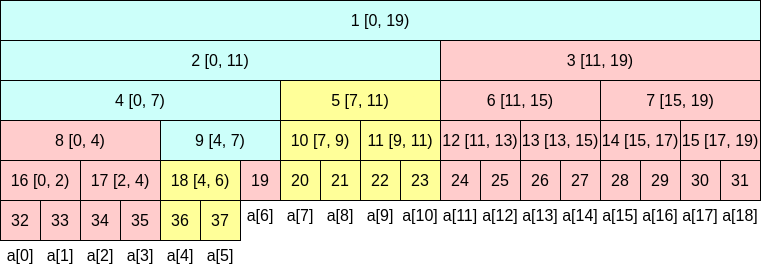
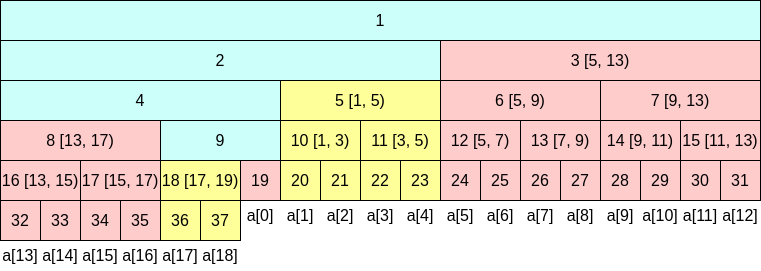
images in PDF (#60)
* update submodule to allow images in PDF

* update images

diff --git a/library/data_structures/README.md b/library/data_structures/README.md
@@ -1,7 +1,7 @@
 seg tree indexing with n=19
 
-![](seg_tree_indexing.png)
+![](lazy_seg_tree_indexing.png)
 
 If you use [Efficient and easy segment trees](https://codeforces.com/blog/entry/18051) then the indexing looks like this
 
-![](easy_efficient_seg_tree_indexing.png)
+![](seg_tree_indexing.png)
